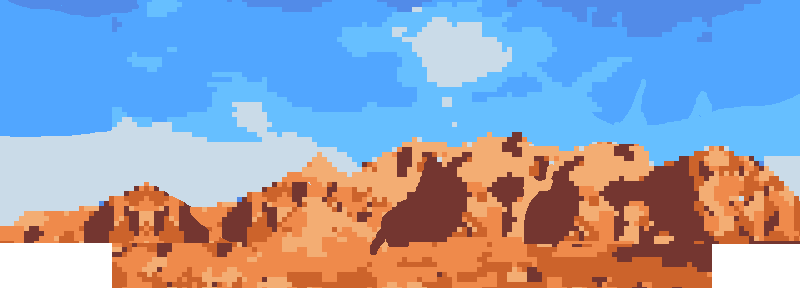
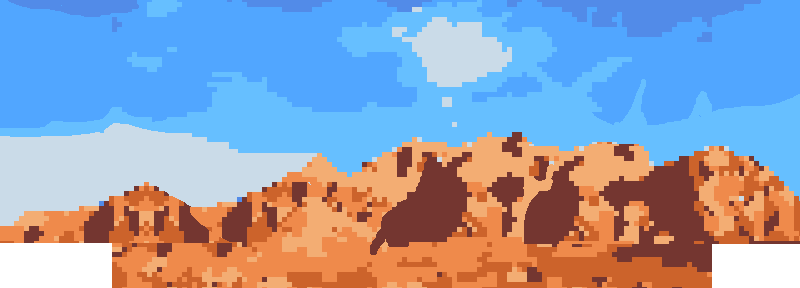
-Introduced a game state object so entity update functions don't need 1000 parameters. (Will also be needed for bandit AI) -Updated mountain background -Highlighted bits of code that need to be moved

Changed region(s): [[0.2812, 0.3438, 0.4688, 0.625], [0.0, 0.375, 0.2188, 0.5], [0.9375, 0.5312, 1.0, 0.6875]]

diff --git a/main.py b/main.py
@@ -7,7 +7,7 @@ from pygame.locals import (
     QUIT,
 )
 from entities import Player, Target, Bandit
-from utilities import TileLoader
+from utilities import TileLoader, GameState
 from consts import *
 import os
 
@@ -20,45 +20,38 @@ pygame.event.set_allowed([KEYDOWN, QUIT, pygame.MOUSEBUTTONUP])
 screen = pygame.display.set_mode((SCREEN_WIDTH, SCREEN_HEIGHT))
 screen.set_alpha(None)
 
-entities = pygame.sprite.Group()
-destroyables = pygame.sprite.Group()
-animated = pygame.sprite.Group()
+GS = GameState()
+
 clint = Player()
-entities.add(clint)
-animated.add(clint)
-clock = pygame.time.Clock()
-tile_rects = []
+GS.entities.add(clint)
+GS.animated.add(clint)
+
+GS.tile_map = TileLoader().load_map()
 
 cursor_img = pygame.image.load(os.path.join(ASSETS_DIRECTORY, CURSOR_IMG))
-tile_map = TileLoader().load_map()
 soundtrack = pygame.mixer.Sound(os.path.join(ASSETS_DIRECTORY, SOUNDS_DIRECTORY, "soundtrack.wav"))
 pygame.mixer.Channel(0).play(soundtrack, loops=-1)
-
 font = pygame.font.SysFont("Arial", 32)
 
-animation_count = 0
-running = True
-debug = False
 
-while running:
+while GS.running:
     # ANIMATION HANDLING
-    dt = clock.tick(60) / 1000
-    animation_count += 1
-    if animation_count == 5:
-        animation_count = 0
-        for e in animated:
+    GS.dt = GS.clock.tick(60) / 1000
+    GS.animation_count += 1
+    if GS.animation_count == 5:
+        GS.animation_count = 0
+        for e in GS.animated:
             e.update_animation()
 
-    for x in range(0, len(tile_map)):  # loads map
-        for y in range(0, len(tile_map[x])):
-            tile = tile_map[x][y]
+    for x in range(0, len(GS.tile_map)):  # loads map
+        for y in range(0, len(GS.tile_map[x])):
+            tile = GS.tile_map[x][y]
             if tile.image:
                 screen.blit(tile.image, (x * 16, y * 16))
-                if tile.interactable:
+                if tile.interactable:  # TODO move this into the tile class
                     tile.rect = pygame.Rect(x * 16, y * 16, 16, 16)
-                    tile_rects.append(tile)
 
-    if debug:
+    if GS.debug:
         # render blocks
         for y in range(18):
             for x in range(50):
@@ -66,7 +59,7 @@ while running:
                 pygame.draw.rect(screen, (0, 0, 255), rect, 1)
 
         # render fps
-        fps = str(int(clock.get_fps()))
+        fps = str(int(GS.clock.get_fps()))
         screen.blit(font.render(fps, 1, (255, 255, 255)), (0, 0))
 
     # render a cursor
@@ -79,31 +72,33 @@ while running:
     for event in pygame.event.get():
         if event.type == KEYDOWN:
             if event.key == K_ESCAPE:
-                running = False
+                GS.running = False
             if event.key == K_UP:
-                debug = False if debug else True
+                GS.debug = False if GS.debug else True
                 # this will become "interact" key for entering doors
         elif event.type == QUIT:
-            running = False
+            GS.running = False
         elif event.type == pygame.MOUSEBUTTONUP:
             if event.button == 1:
                 bullet = clint.fire_gun()
-                entities.add(bullet)
+                GS.entities.add(bullet)
             else:
                 # target = Target(pygame.mouse.get_pos())
                 target = Bandit(pygame.mouse.get_pos())
-                destroyables.add(target)
-                animated.add(target)
-                entities.add(target)
+                GS.destroyables.add(target)
+                GS.animated.add(target)
+                GS.entities.add(target)
 
     # ENTITY UPDATES
-    entities.update(dt, pygame.key.get_pressed(), tile_map, destroyables)
+    for entity in GS.entities:
+        GS = entity.update(GS, pygame.key.get_pressed())
 
-    for entity in entities:
+    for entity in GS.entities:
         screen.blit(entity.surf, entity.rect)
 
+        #  TODO remove this nicely
         if entity.name == "bullet":  # reasonably sure this could be removed, but if it isn't broke don't fix it
-            for e in destroyables:
+            for e in GS.destroyables:
                 if entity.rect.colliderect(e.rect):
                     entity.kill()
                     e.on_hit()

diff --git a/entities.py b/entities.py
@@ -26,8 +26,8 @@ class Target(pygame.sprite.Sprite):
         )
         self.hit_sound = pygame.mixer.Sound(os.path.join(ASSETS_DIRECTORY, SOUNDS_DIRECTORY, "richochet.wav"))
 
-    def update(self, dt, keys, tile_map, destroyables):
-        pass
+    def update(self, GS, keys_pressed):
+        return GS
 
     def on_hit(self):
         pygame.mixer.Channel(0).play(self.hit_sound)
@@ -55,7 +55,7 @@ class Bullet(pygame.sprite.Sprite):
         self.last_point = self.rect.center
         self.current_point = self.rect.center
 
-    def update(self, dt, keys, tile_map, destroyables):
+    def update(self, GS, keys_pressed):
         self.rect.move_ip(self.v[0], self.v[1])
         self.current_point = self.rect.center
 
@@ -75,16 +75,17 @@ class Bullet(pygame.sprite.Sprite):
 
             test_coords = (self.last_point[0]+x, self.last_point[1]+y_add)
             self.rect.center = test_coords
-            for e in destroyables:
+            for e in GS.destroyables:
                 if self.rect.colliderect(e.rect):
                     e.on_hit()
         self.rect.center = self.current_point
 
-        collisions = get_collisions(self.rect, tile_map)
+        collisions = get_collisions(self.rect, GS.tile_map)
         if collisions:  # for now we're only concerned if the bullet hits the floor
             self.kill()
 
         self.last_point = self.current_point
+        return GS
 
     def calc_initial_velocity(self):
         sp = self.start_pos
@@ -132,7 +133,7 @@ class Player(pygame.sprite.Sprite):
         self.gravity = 10
         self.max_v = [50, 200]
 
-    def update(self, dt, keys_pressed, tiles, destroyables):
+    def update(self, GS, keys_pressed):
         self.idle = True
         if keys_pressed[K_LEFT]:
             self.v[0] -= self.acceleration
@@ -148,7 +149,8 @@ class Player(pygame.sprite.Sprite):
         # consider gravity
         self.v[1] += self.gravity
 
-        self.update_movement(dt, tiles)
+        self.update_movement(GS.dt, GS.tile_map)
+        return GS
 
     def update_movement(self, dt, tile_map):
 
@@ -258,14 +260,15 @@ class Bandit(pygame.sprite.Sprite):
         self.gravity = 10
         self.max_v = [50, 200]
 
-    def update(self, dt, keys_pressed, tiles, destroyables):
+    def update(self, GS, keys_pressed):
         self.idle = True
         # TODO insert movement logic
 
         # consider gravity
         self.v[1] += self.gravity
 
-        self.update_movement(dt, tiles)
+        self.update_movement(GS.dt, GS.tile_map)
+        return GS
 
     def update_movement(self, dt, tile_map):
         if self.v[0] > self.max_v[0]:

diff --git a/utilities.py b/utilities.py
@@ -41,6 +41,22 @@ def get_collisions(rect, tile_map):
     return collisions
 
 
+class GameState:
+    def __init__(self):
+        self.tile_map = []
+
+        self.entities = pygame.sprite.Group()
+        self.destroyables = pygame.sprite.Group()
+        self.animated = pygame.sprite.Group()
+
+        self.clock = pygame.time.Clock()
+        self.dt = None
+        self.animation_count = 0
+
+        self.running = True
+        self.debug = False
+
+
 class TileLoader:
     def __init__(self):
         pass

diff --git a/README.md b/README.md
@@ -1,11 +1,13 @@
 <h1>West of Here</h1>
 A Spaghetti Western inspired click'n'shoot platformer.
 
-![The current state of the game](https://i.imgur.com/q1HXaq2.png)
+![The current state of the game](https://i.imgur.com/HV5F9hz.png)
 
 This project was started to get familiar with the Pygame library, and is currently more of a demo than game (not that it's currently demonstrating anything).
 
 <h2>Roadmap</h2>
 <li>Tilemap Creator (think Mario Maker, with a smaller budget)</li>
 <li><del>Background/Tileset</del> with Parallax</li>
-<li><del>Gun Mechanics</del> (including something to shoot)</li>
+<li><del>Gun Mechanics (including something to shoot)</del></li>
+<li>Gun Animations + Logic (reloading, delays)</li>
+<li>Enemy logic</li>
